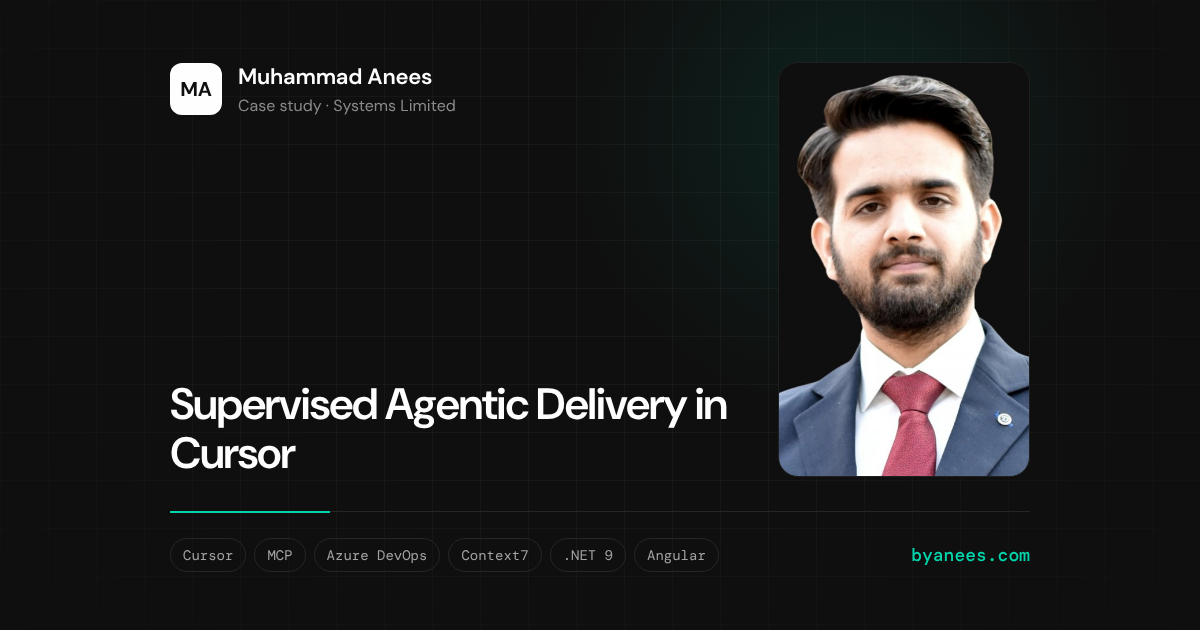
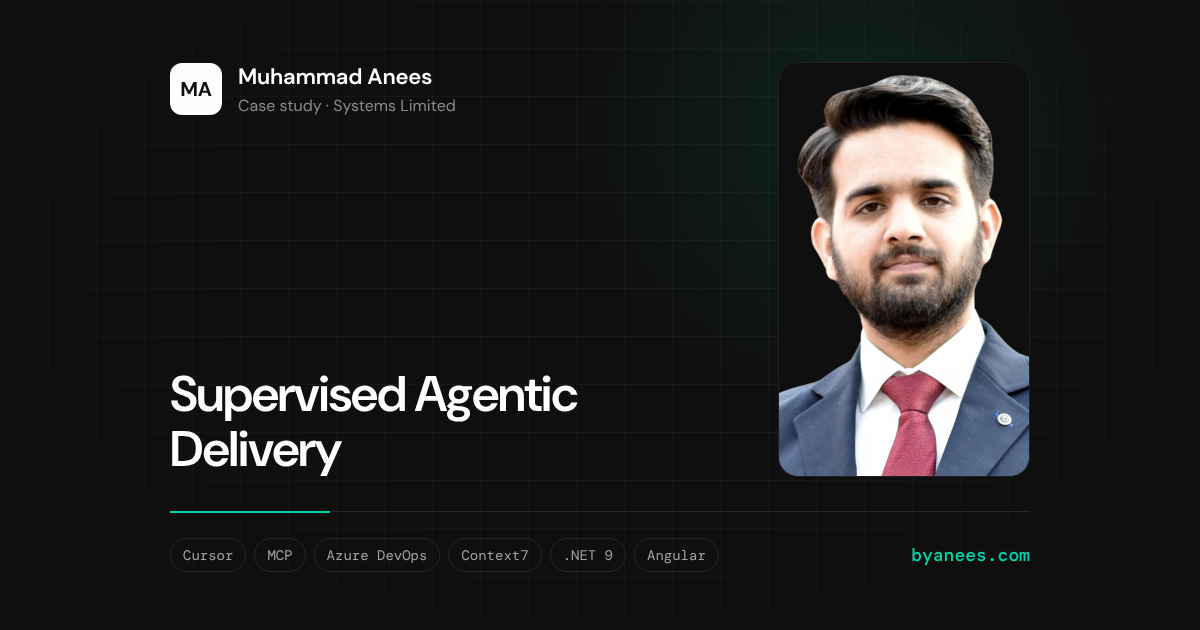
Lead with the agentic delivery case study on home and work pages
Supervised Agentic Delivery is now first in CASE_STUDIES and featured,
so it is the first card on the home page and on /portfolio. Redis
Connection Multiplexing moves to the "more case studies" links.

The case study now says the setup is not tied to Cursor: the modes,
skills, rules and MCP tools are plain files in the repo, so it runs the
same in Claude Code or any other agent. The title drops "in Cursor", the
card summary is shorter and says where it runs, and the About FAQ says
the same. The share card is re-rendered for the new title.

Claude-Session: https://claude.ai/code/session_013p3pxK6xR5FLCBu9Kfntqw

Changed region(s): [[0.1233, 0.6032, 0.6167, 0.754]]

diff --git a/src/data/caseStudies.ts b/src/data/caseStudies.ts
@@ -27,6 +27,37 @@ export type CaseStudy = {
 
 export const CASE_STUDIES: CaseStudy[] = [
   {
+    slug: "supervised-agentic-delivery",
+    domain: "Agentic AI",
+    title: "Supervised Agentic Delivery",
+    company: "Systems Limited",
+    role: "Product Engineer",
+    period: "2026 – Present",
+    featured: true,
+    summary:
+      "Three mode agents, picked by the work item. The agent does everything I can undo; merges, migrations, and database writes stay with me. Runs in Cursor, Claude Code, or any other agent.",
+    metaDescription:
+      "Supervised agentic delivery: 3 mode agents picked by the work item, 5 MCP tools, and human-owned merges. Built in Cursor, portable to Claude Code.",
+    problem:
+      "During hypercare, from September to October 2026, I worked on 40+ production incidents under an 8-hour SLA. Fast fixes only count if nothing else breaks. The Cursor setup I had, long specialist agents under an orchestrator, loaded a lot into every chat, and its guardrails held only as well as that day's prompt.",
+    built: [
+      "Three mode agents, picked by the Azure DevOps work item: a prod bug, hotfix, or test verification goes to L3 mode, a user story to feature mode, and a Teams message with no work item yet to triage mode",
+      "L3 mode reads the work item and every comment on it, reproduces the issue on a test host, writes the smallest fix it can, then checks what else the fix could touch (notifications, scheduled jobs, integrations, config) before opening a PR to the latest release branch",
+      "Feature mode runs a gap analysis before any code and opens its PR to develop. Triage mode finds the root cause and drafts a bug work item, writes no code unless I ask, and hands off to L3 once I confirm",
+      "Six skills as playbooks: bug fix, feature delivery, triage, GitFlow, PR and work item write-ups, and live library docs",
+      "Five tools over MCP: Codegraph first for the codebase, Context7 for library docs, Figma, Bytebase, and Azure DevOps",
+      "Rule files that load in every chat: the database is read-only by default, topic branches only, no merges, no migrations, a browser on four test hosts and nowhere else, and every work item comment stays a draft until I approve it",
+      "It replaced the orchestrator and its specialist agents, which are now archived",
+      "Nothing in it is tied to Cursor: the modes, skills, rules, and MCP tools are plain files in the repo, so the same setup runs in Claude Code or any agent that loads rules and calls tools over MCP",
+    ],
+    results: [
+      { value: "3", label: "mode agents, picked by the work item, in place of an orchestrator" },
+      { value: "5", label: "tools over MCP: Codegraph, Context7, Figma, Bytebase, Azure DevOps" },
+      { value: "0", label: "merges, migrations, or database writes left to the agent" },
+    ],
+    stack: ["Cursor", "MCP", "Azure DevOps", "Context7", ".NET 9", "Angular"],
+  },
+  {
     slug: "request-to-pay",
     domain: "Payments",
     title: "Request to Pay over App and USSD",
@@ -153,35 +184,6 @@ export const CASE_STUDIES: CaseStudy[] = [
       { value: "Emailed", label: "ticket details as soon as it is issued" },
     ],
     stack: [".NET", "Microservices", "Third-party APIs"],
-  },
-  {
-    slug: "supervised-agentic-delivery",
-    domain: "AI-assisted engineering",
-    title: "Supervised Agentic Delivery in Cursor",
-    company: "Systems Limited",
-    role: "Product Engineer",
-    period: "2026 – Present",
-    summary:
-      "A Cursor setup I rebuilt for production work on .NET 9 and Angular: the work item picks one of three mode agents, each with its own playbook. The agent does everything I can undo. Merges, migrations, database writes, and anything posted to the ticket stay with me.",
-    metaDescription:
-      "Supervised agentic delivery in Cursor: 3 mode agents routed by the Azure DevOps work item, 5 tools over MCP, and rules that keep irreversible steps human.",
-    problem:
-      "During hypercare, from September to October 2026, I worked on 40+ production incidents under an 8-hour SLA. Fast fixes only count if nothing else breaks. The Cursor setup I had, long specialist agents under an orchestrator, loaded a lot into every chat, and its guardrails held only as well as that day's prompt.",
-    built: [
-      "Three mode agents, picked by the Azure DevOps work item: a prod bug, hotfix, or test verification goes to L3 mode, a user story to feature mode, and a Teams message with no work item yet to triage mode",
-      "L3 mode reads the work item and every comment on it, reproduces the issue on a test host, writes the smallest fix it can, then checks what else the fix could touch (notifications, scheduled jobs, integrations, config) before opening a PR to the latest release branch",
-      "Feature mode runs a gap analysis before any code and opens its PR to develop. Triage mode finds the root cause and drafts a bug work item, writes no code unless I ask, and hands off to L3 once I confirm",
-      "Six skills as playbooks: bug fix, feature delivery, triage, GitFlow, PR and work item write-ups, and live library docs",
-      "Five tools over MCP: Codegraph first for the codebase, Context7 for library docs, Figma, Bytebase, and Azure DevOps",
-      "Rule files that load in every chat: the database is read-only by default, topic branches only, no merges, no migrations, a browser on four test hosts and nowhere else, and every work item comment stays a draft until I approve it",
-      "It replaced the orchestrator and its specialist agents, which are now archived",
-    ],
-    results: [
-      { value: "3", label: "mode agents, picked by the work item, in place of an orchestrator" },
-      { value: "5", label: "tools over MCP: Codegraph, Context7, Figma, Bytebase, Azure DevOps" },
-      { value: "0", label: "merges, migrations, or database writes left to the agent" },
-    ],
-    stack: ["Cursor", "MCP", "Azure DevOps", "Context7", ".NET 9", "Angular"],
   },
   {
     slug: "qualification-certificate-workflow",

diff --git a/src/data/pages/about.ts b/src/data/pages/about.ts
@@ -26,7 +26,7 @@ export const FAQ: FaqItem[] = [
     },
     {
         question: "Do you work with AI tools?",
-        answer: "Yes, every day: I'm an AI-native engineer. I run a supervised agentic setup in Cursor: the work item picks one of three mode agents (L3 support, feature delivery, or triage), each with its own playbook and tools over MCP. The agent investigates, fixes, tests, and opens PRs; merges, migrations, and database writes stay with me.",
+        answer: "Yes, every day: I'm an AI-native engineer. I run a supervised agentic setup in Cursor: the work item picks one of three mode agents (L3 support, feature delivery, or triage), each with its own playbook and tools over MCP. The agent investigates, fixes, tests, and opens PRs; merges, migrations, and database writes stay with me. It runs in Cursor today, and the same files work in Claude Code or any other agent.",
     },
     {
         question: "Are you available for new opportunities?",
